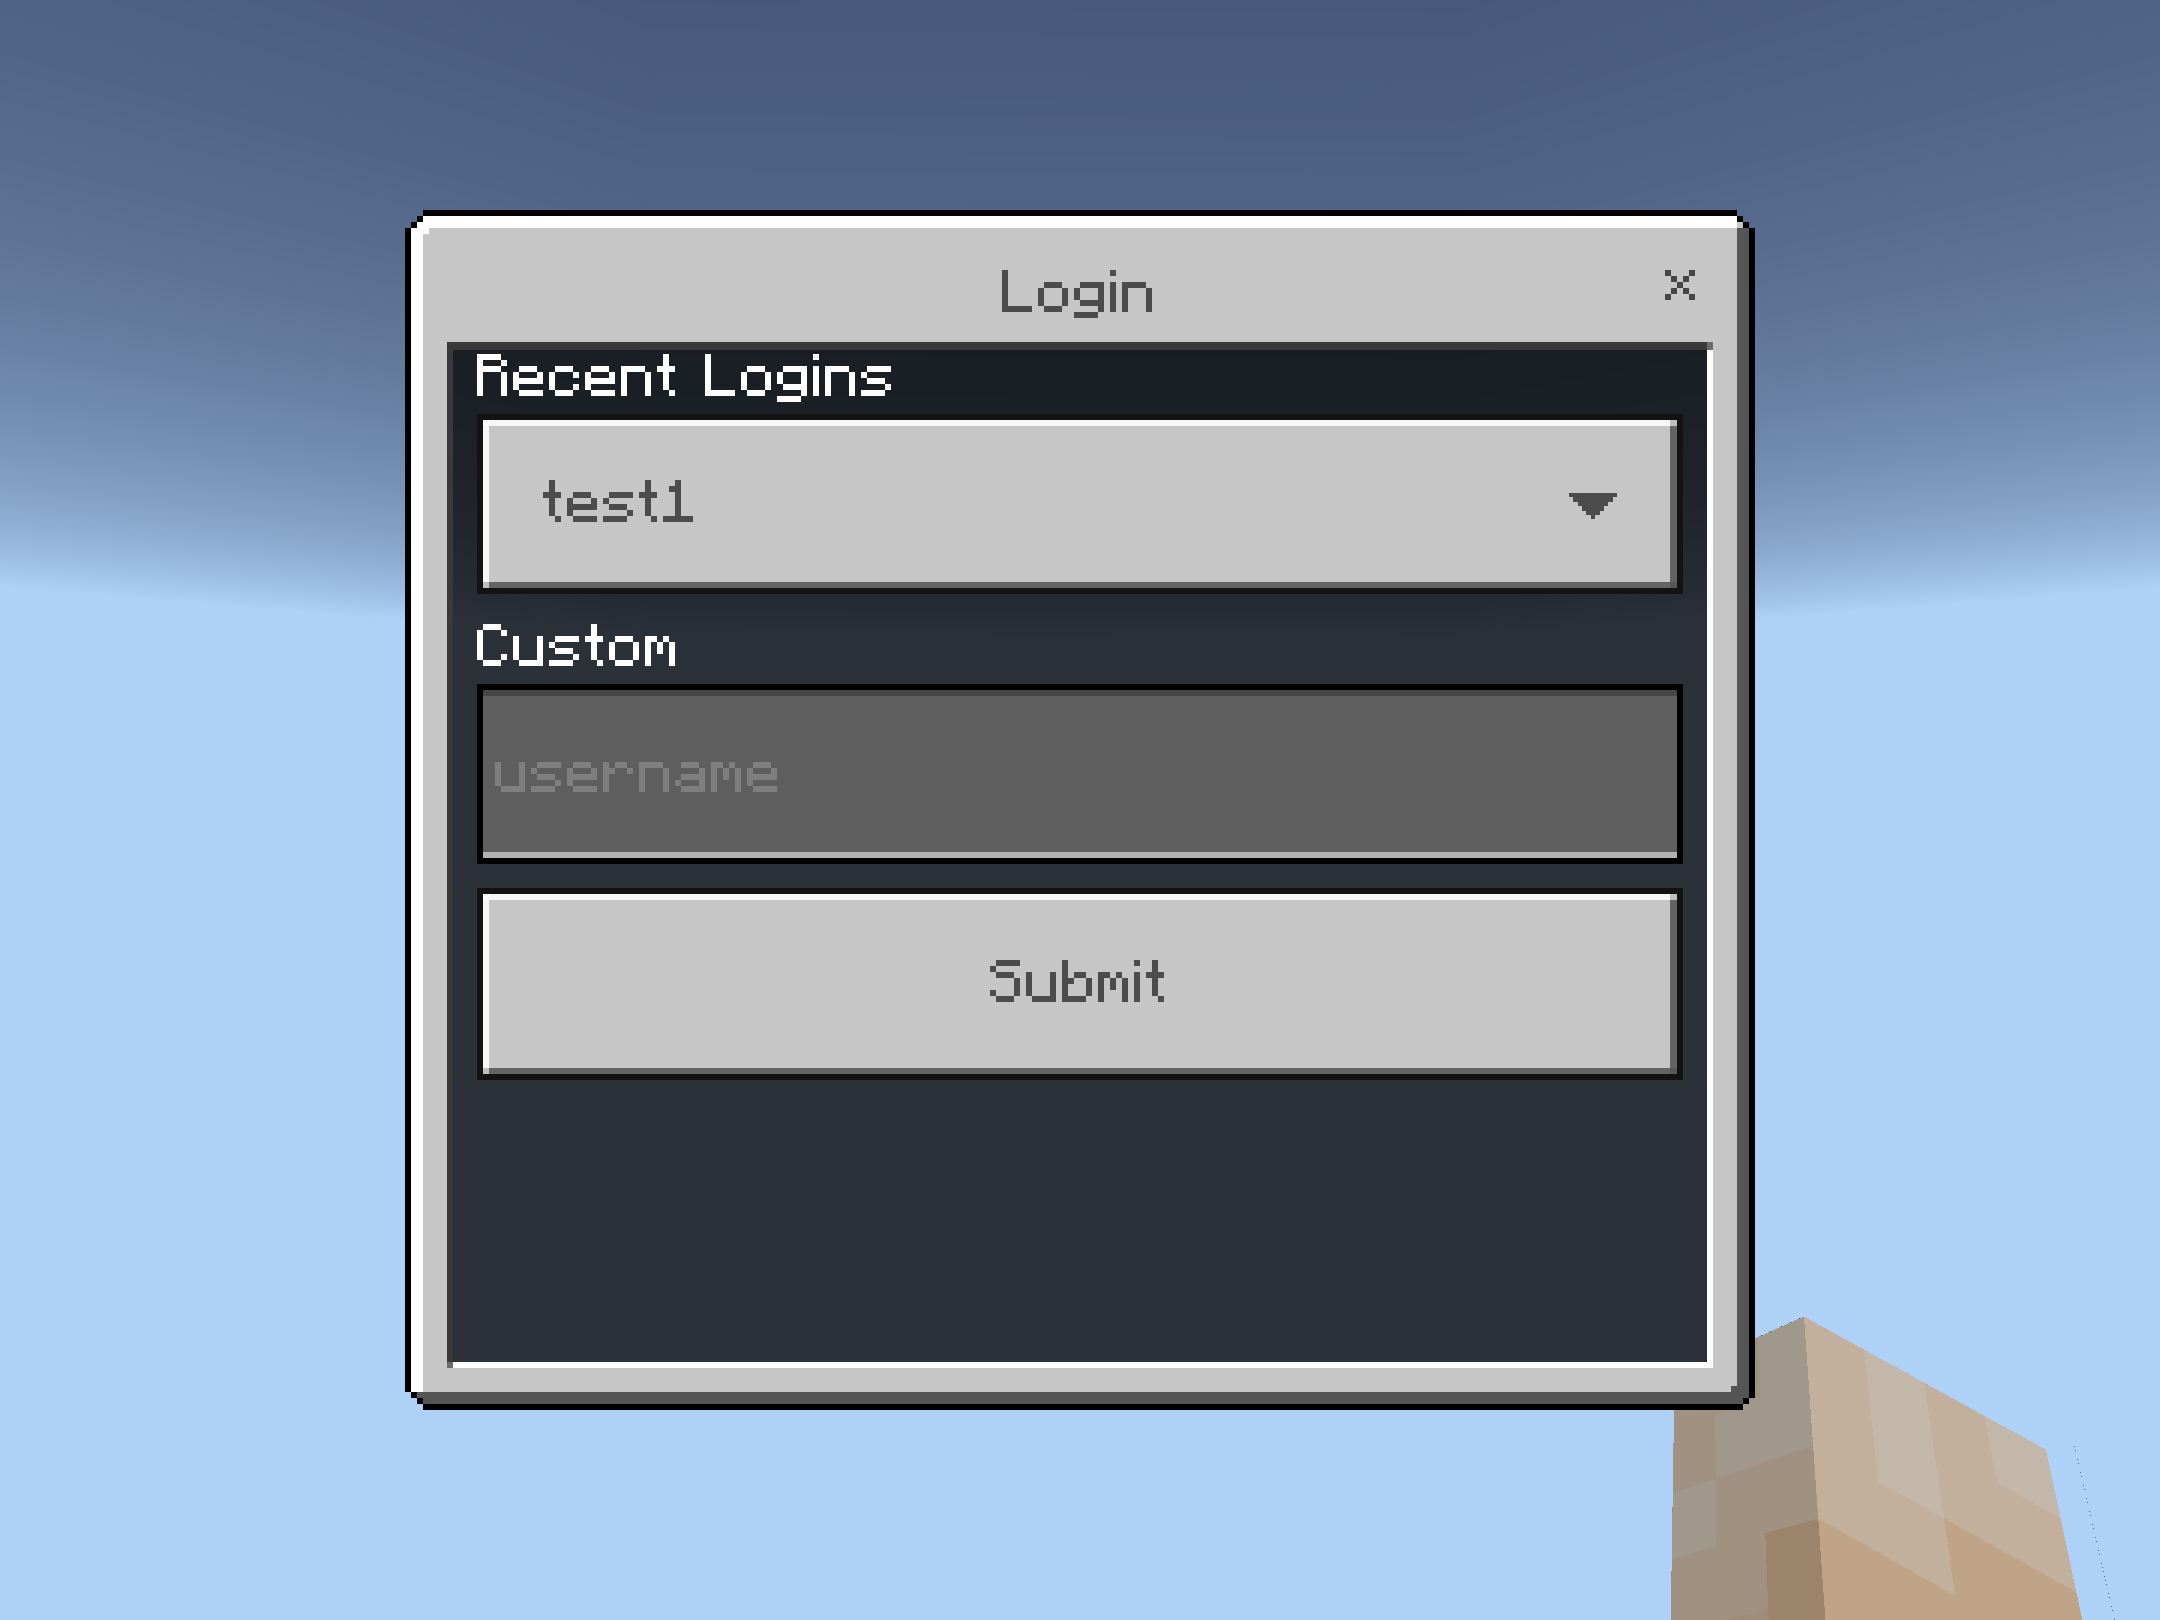
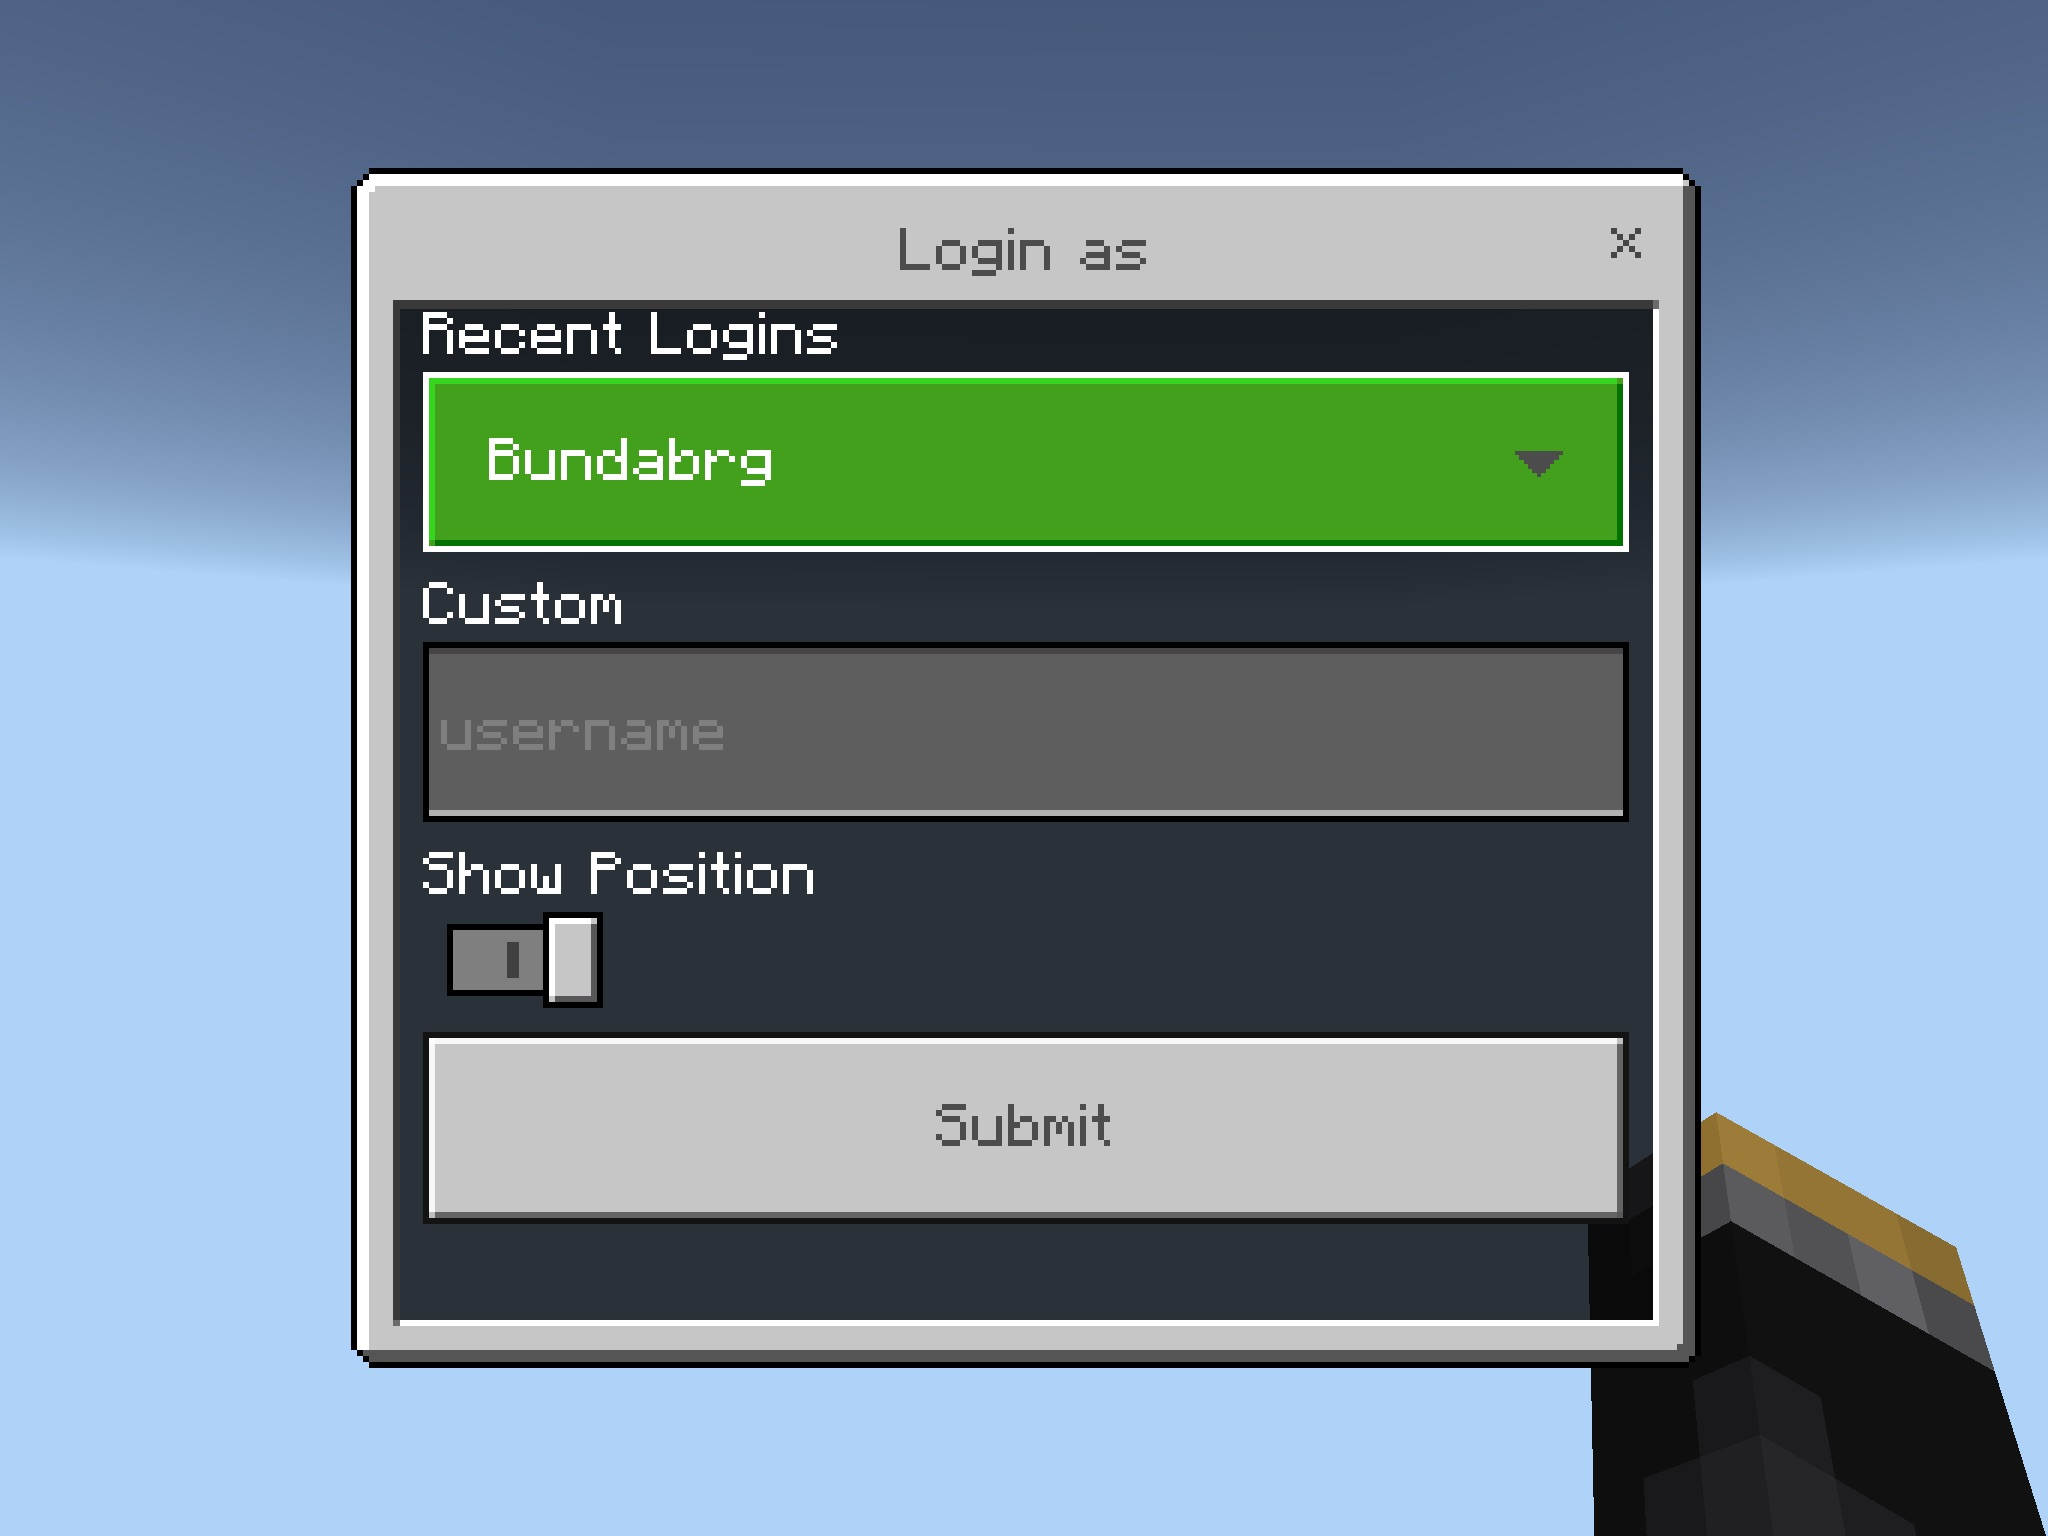
Add Show Position setting

diff --git a/src/main/java/au/com/grieve/geyserlogin/GeyserLoginPlugin.java b/src/main/java/au/com/grieve/geyserlogin/GeyserLoginPlugin.java
@@ -19,6 +19,8 @@
 package au.com.grieve.geyserlogin;
 
 import au.com.grieve.geyserlogin.ui.LoginUI;
+import com.nukkitx.protocol.bedrock.data.GameRuleData;
+import com.nukkitx.protocol.bedrock.packet.GameRulesChangedPacket;
 import com.nukkitx.protocol.bedrock.packet.ModalFormResponsePacket;
 import lombok.Getter;
 import org.geysermc.common.window.CustomFormWindow;
@@ -39,6 +41,7 @@ import java.sql.SQLException;
 import java.util.HashMap;
 import java.util.List;
 import java.util.Map;
+import java.util.UUID;
 import java.util.regex.Pattern;
 
 @Plugin(
@@ -98,14 +101,17 @@ public class GeyserLoginPlugin extends GeyserPlugin {
     }
 
     void showLoginWindow(PlayerSession playerSession) {
-        List<String> logins = db.getRecentLogins(playerSession.getSession().getAuthData().getUUID());
+        UUID uuid = playerSession.getSession().getAuthData().getUUID();
+        List<String> logins = db.getRecentLogins(uuid);
 
         // Always add the users own login name
         if (!logins.contains(playerSession.getSession().getAuthData().getName())) {
             logins.add(playerSession.getSession().getAuthData().getName());
         }
 
-        CustomFormWindow window = LoginUI.mainWindow(logins);
+        boolean showPosition = db.getSetting(uuid, "show-position", "true").equals("true");
+
+        CustomFormWindow window = LoginUI.mainWindow(logins, showPosition);
 
         on(UpstreamPacketReceiveEvent.class, (handler, event) -> {
             ModalFormResponsePacket packet = (ModalFormResponsePacket) event.getPacket();
@@ -138,10 +144,18 @@ public class GeyserLoginPlugin extends GeyserPlugin {
                         return;
                     }
 
+                    Boolean isShowPosition = response.getToggleResponses().getOrDefault(2, true);
+
                     handler.unregister();
 
                     // Add to database
-                    db.addLogin(playerSession.getSession().getAuthData().getUUID(), login);
+                    db.addLogin(uuid, login);
+                    db.setSetting(uuid, "show-position", isShowPosition ? "true" : "false");
+
+                    // Update GameRule
+                    GameRulesChangedPacket gameRulesChangedPacket = new GameRulesChangedPacket();
+                    gameRulesChangedPacket.getGameRules().add(new GameRuleData<>("showcoordinates", isShowPosition));
+                    playerSession.getSession().sendUpstreamPacket(gameRulesChangedPacket);
 
                     // Authenticate
                     playerSession.getSession().authenticate(login);

diff --git a/src/main/java/au/com/grieve/geyserlogin/Db.java b/src/main/java/au/com/grieve/geyserlogin/Db.java
@@ -58,6 +58,74 @@ public class Db {
                     "  used DATETIME NOT NULL DEFAULT CURRENT_TIMESTAMP " +
                     ");"
             );
+
+            // I don't like this sort of settings table but it allows forward compatibility
+            conn.createStatement().execute("CREATE TABLE IF NOT EXISTS settings(" +
+                    "  id INTEGER PRIMARY_KEY, " +
+                    "  user_uuid VARCHAR, " +
+                    "  setting VARCHAR NOT NULL, " +
+                    "  value VARCHAR NOT NULL " +
+                    ");"
+            );
+        } catch (SQLException throwables) {
+            throwables.printStackTrace();
+        }
+    }
+
+    /**
+     * Get a Setting
+     */
+    public String getSetting(UUID uuid, String setting, String def) {
+        try {
+            PreparedStatement stmt = conn.prepareStatement("SELECT value " +
+                    "FROM settings " +
+                    "WHERE user_uuid = ? " +
+                    "AND setting = ? " +
+                    ";"
+            );
+
+
+            stmt.setString(1, uuid.toString());
+            stmt.setString(2, setting);
+
+            ResultSet rs = stmt.executeQuery();
+            if (rs.next()) {
+                return rs.getString(1);
+            }
+        } catch (SQLException throwables) {
+            throwables.printStackTrace();
+        }
+        return def;
+    }
+
+    public String getSetting(UUID uuid, String setting) {
+        return getSetting(uuid, setting, null);
+    }
+
+    public void setSetting(UUID uuid, String setting, String value) {
+        try {
+            PreparedStatement stmt = conn.prepareStatement("DELETE FROM settings " +
+                    "WHERE user_uuid = ? " +
+                    "AND setting = ? " +
+                    ";"
+            );
+
+
+            stmt.setString(1, uuid.toString());
+            stmt.setString(2, setting);
+
+            stmt.execute();
+
+            stmt = conn.prepareStatement("INSERT INTO settings(user_uuid, setting, value) " +
+                    "VALUES(?, ?, ?) " +
+                    ";"
+            );
+
+            stmt.setString(1, uuid.toString());
+            stmt.setString(2, setting);
+            stmt.setString(3, value);
+
+            stmt.execute();
         } catch (SQLException throwables) {
             throwables.printStackTrace();
         }

diff --git a/src/main/java/au/com/grieve/geyserlogin/ui/LoginUI.java b/src/main/java/au/com/grieve/geyserlogin/ui/LoginUI.java
@@ -26,13 +26,14 @@ import org.geysermc.common.window.SimpleFormWindow;
 import org.geysermc.common.window.button.FormButton;
 import org.geysermc.common.window.component.DropdownComponent;
 import org.geysermc.common.window.component.InputComponent;
+import org.geysermc.common.window.component.ToggleComponent;
 
 import java.util.Collections;
 import java.util.List;
 
 @UtilityClass
 public class LoginUI {
-    public CustomFormWindow mainWindow(List<String> logins) {
+    public CustomFormWindow mainWindow(List<String> logins, boolean showPosition) {
         DropdownComponent dropdown = new DropdownComponent();
         dropdown.setText("Recent Logins");
 
@@ -44,7 +45,8 @@ public class LoginUI {
 
         CustomFormBuilder builder = new CustomFormBuilder("Login as")
                 .addComponent(dropdown)
-                .addComponent(new InputComponent("Custom", "username", ""));
+                .addComponent(new InputComponent("Custom", "username", ""))
+                .addComponent(new ToggleComponent("Show Position", showPosition));
 
         return builder.build();
     }
